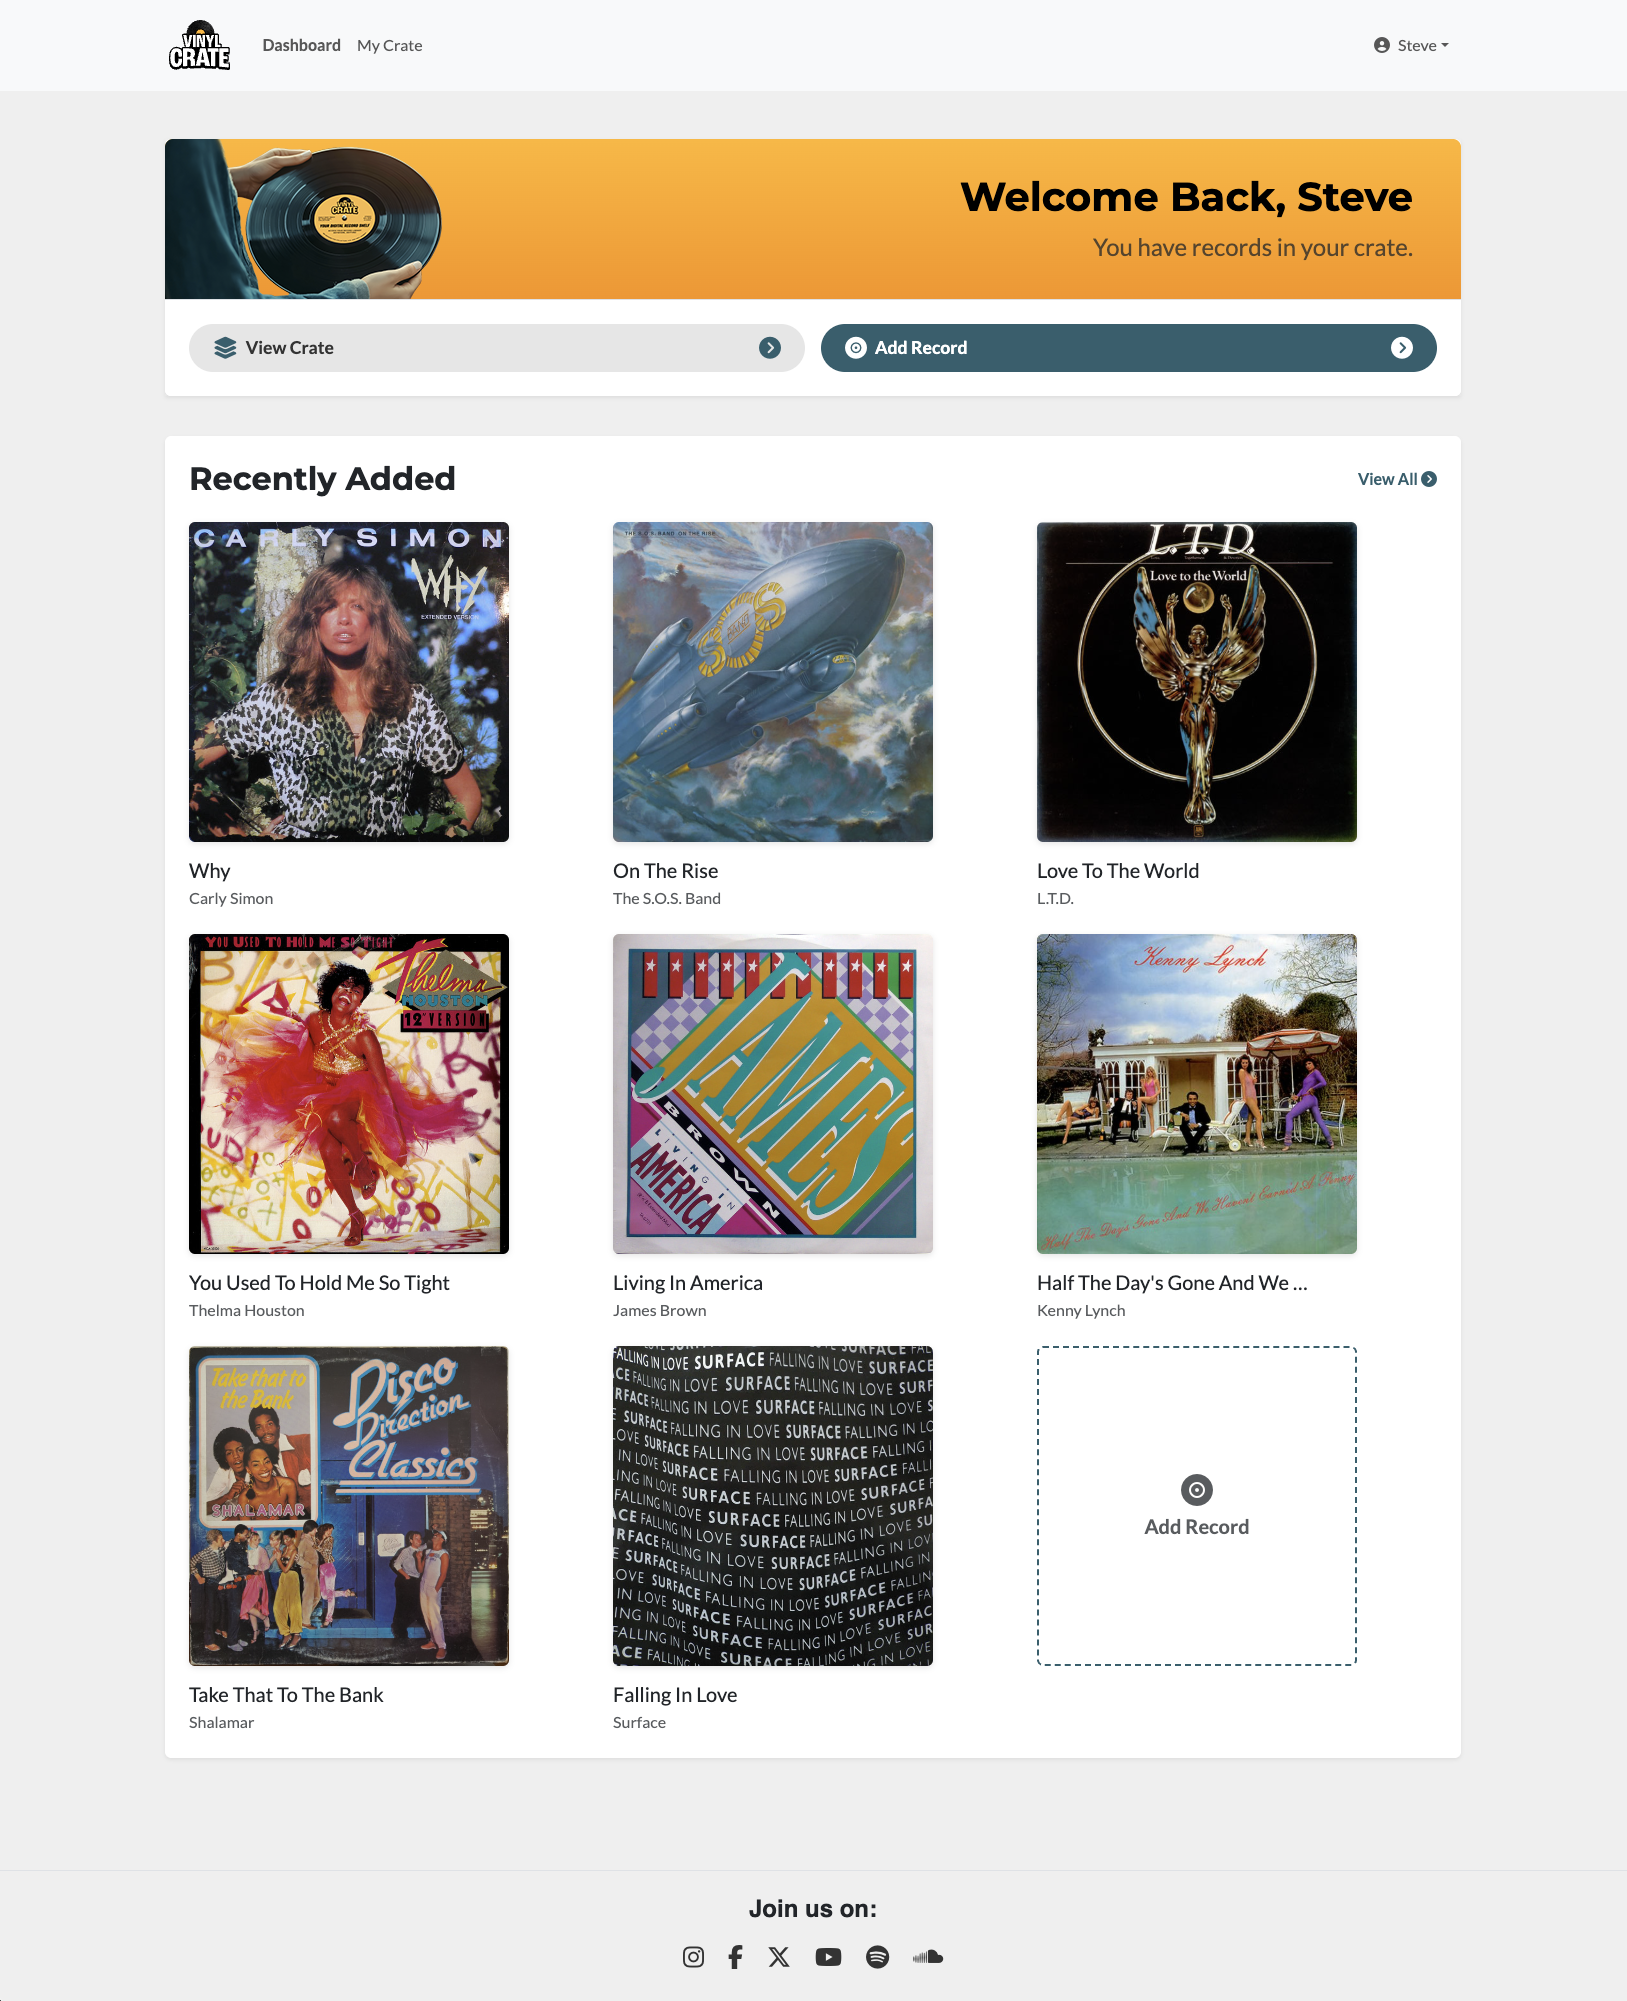
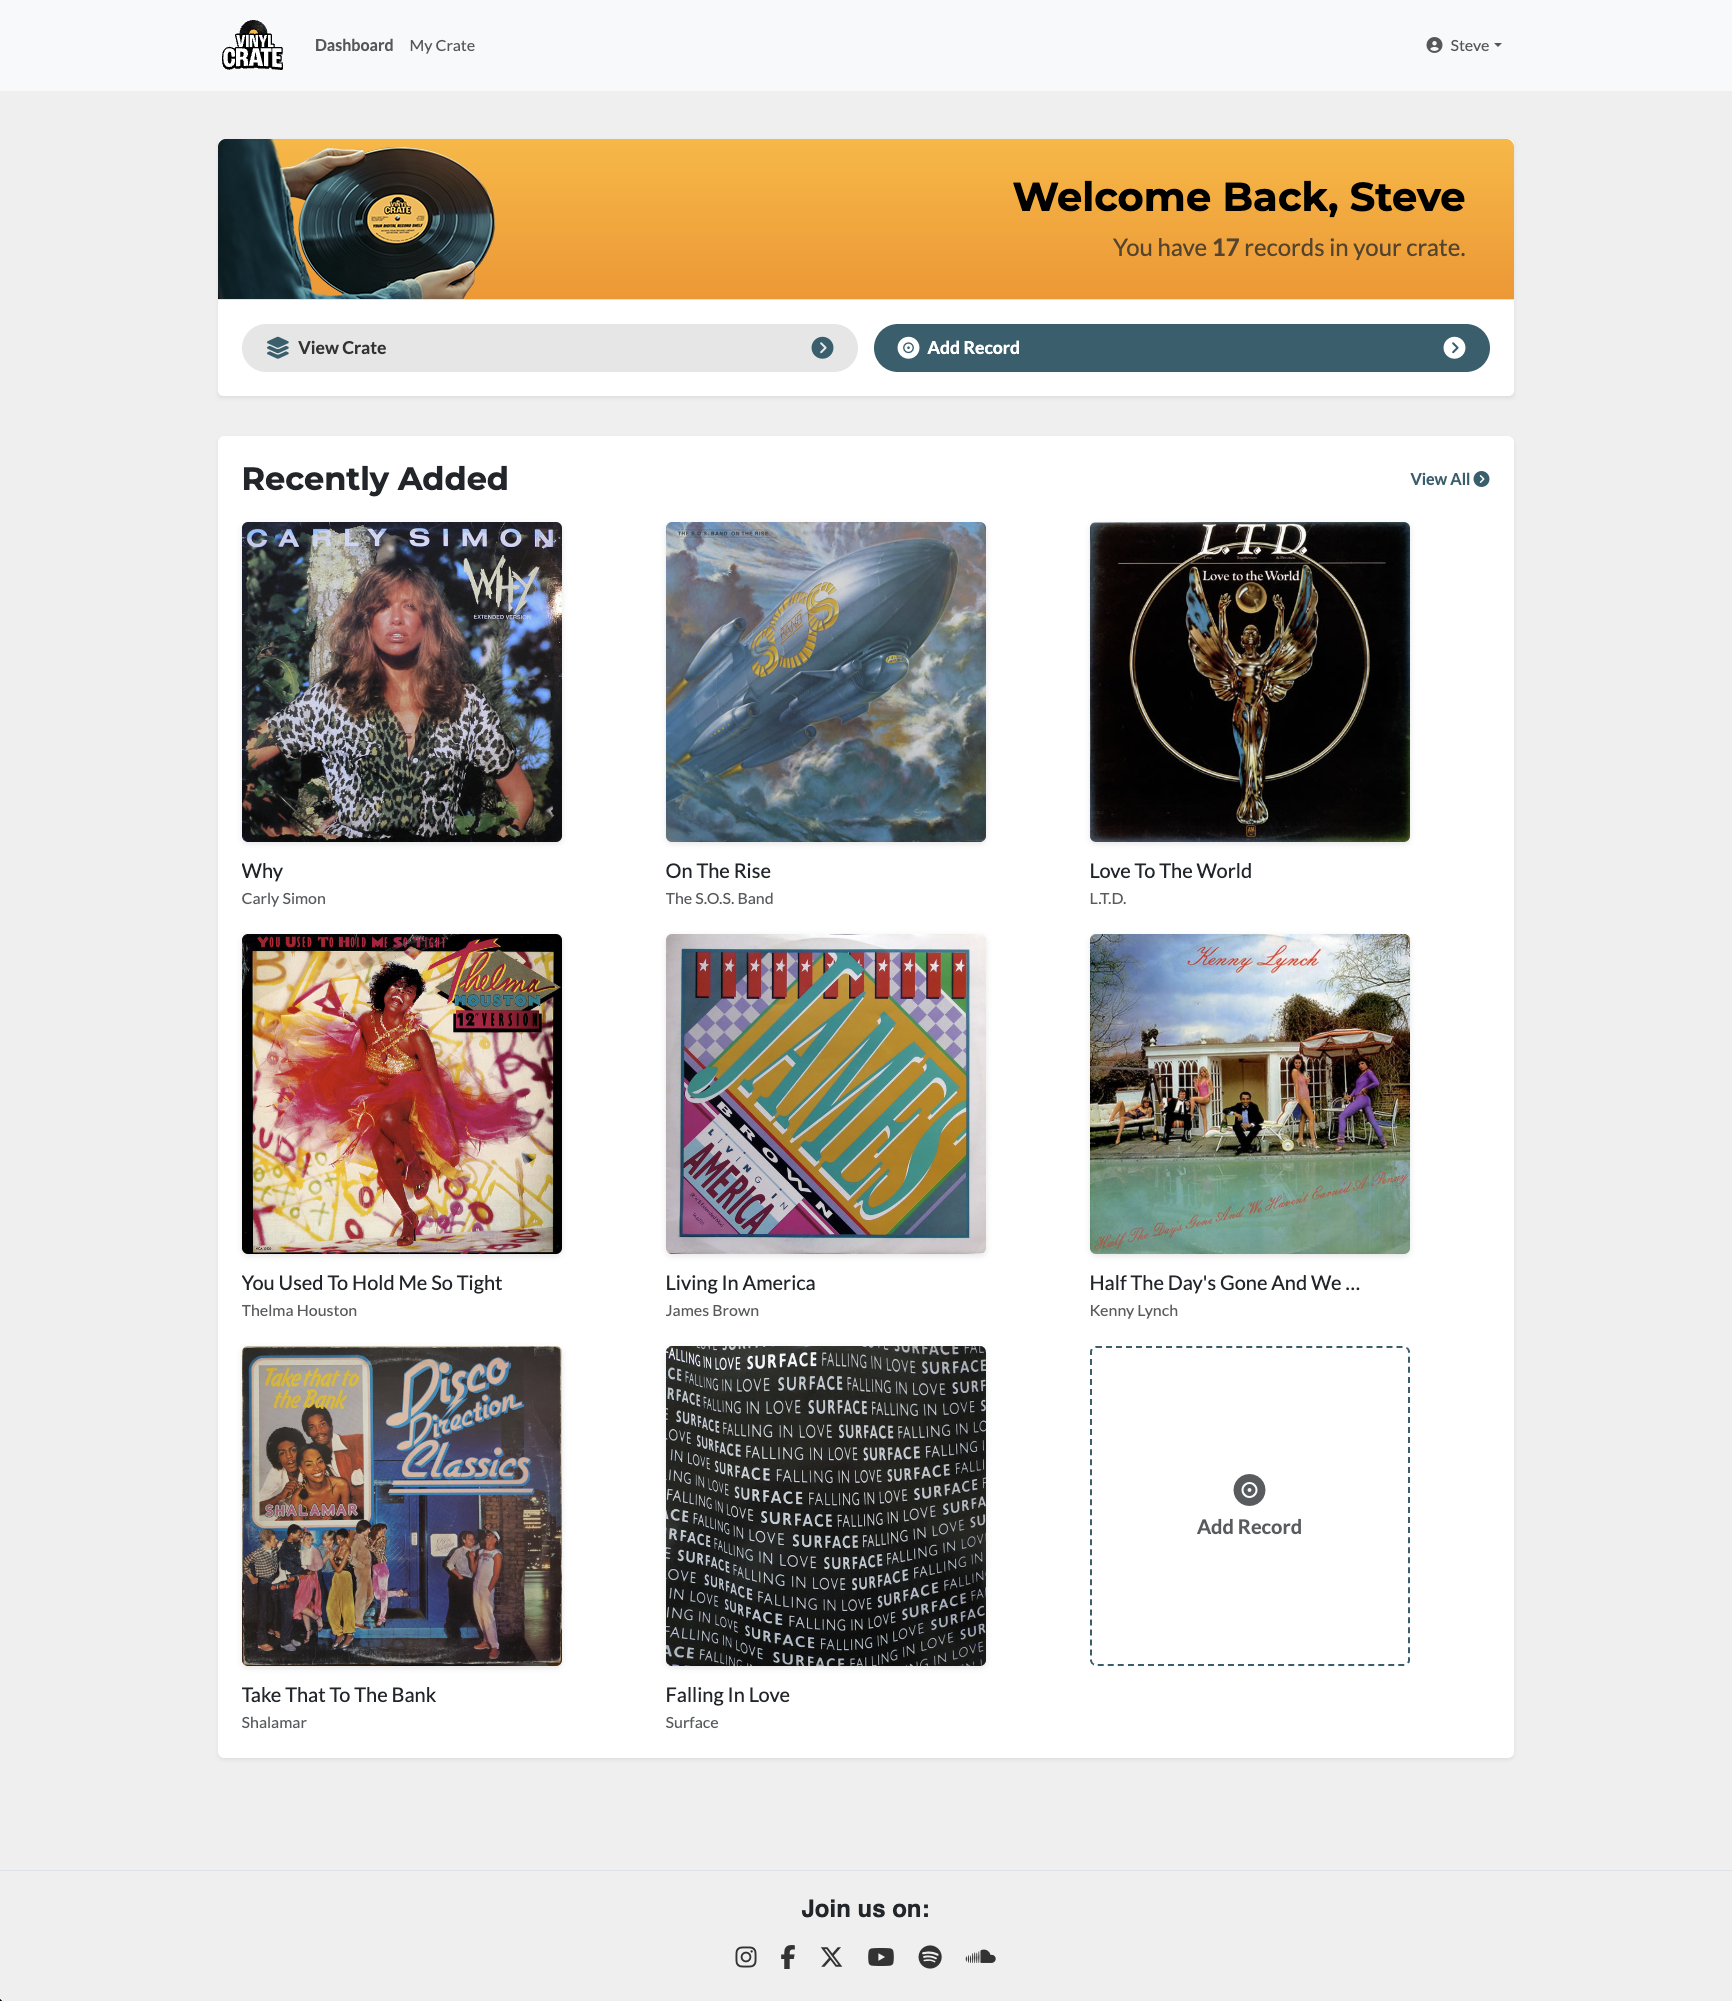
adjust padding and heading styles for dashboard mobile layout consistency

diff --git a/records/templates/records/record_list.html b/records/templates/records/record_list.html
@@ -16,9 +16,9 @@
                     <!-- Text Content Positioned Right -->
                     <div class="welcome-banner-content">
                         <h1 class="banner-title">Welcome Back, {{ user.first_name|default:user.username }}</h1>
-                        <p class="text-muted mb-0">
-                            You have <strong>{{ total_records }}</strong> records in your crate.
-                        </p>
+                        <h2 class="h4 text-muted mb-0">
+                            You have <strong>{{ total_records }}</strong> records in your crate
+                        </h2>
                     </div>
                 </div>
 
@@ -60,7 +60,7 @@
         <div class="bg-white rounded p-4 shadow-sm">
             <div class="row justify-content-between align-items-center mb-4">
                 <div class="col-auto">
-                    <h2 id="recently-added-heading" class="fw-bold mb-0">Recently Added</h2>
+                    <h3 id="recently-added-heading" class=" h2 fw-bold mb-0">Recently Added</h3>
                 </div>
                 <div class="col-auto">
                     <a href="{% url 'record_collection' %}"
@@ -113,27 +113,29 @@
     </section>
     {% else %}
     <!-- Add to Your Crate Section -->
-    <div class="py-5">
-        <h2 class="fw-bold mb-4">Add to Your Crate</h2>
-        <div class="row g-4">
-            <!-- Quick Add Tile -->
-            <div class="col-sm-6 col-md-4 col-2-sm">
-                <a href="{% url 'record_create' %}"
-                class="text-center text-decoration-none"
-                aria-label="Add a new record">
-                    <div class="d-flex flex-column justify-content-center align-items-center bg-light rounded p-3 quick-add-tile" role="button">
-                        <i class="fa-solid fa-record-vinyl fa-2x mb-2 text-muted"></i>
-                        <p class="text-muted mb-0">Add Record</p>
-                    </div>
-                </a>
+    <section class="py-3">
+        <div class="container ps-4">
+            <h3 class="h1 fw-bold mb-4">Add to Your Crate</h3>
+            <div class="row g-4">
+                <!-- Quick Add Tile -->
+                <div class="col-sm-6 col-md-4 col-2-sm">
+                    <a href="{% url 'record_create' %}"
+                    class="text-center text-decoration-none"
+                    aria-label="Add a new record">
+                        <div class="d-flex flex-column justify-content-center align-items-center bg-light rounded p-3 quick-add-tile" role="button">
+                            <i class="fa-solid fa-record-vinyl fa-2x mb-2 text-muted"></i>
+                            <p class="text-muted mb-0">Add Record</p>
+                        </div>
+                    </a>
+                </div>
             </div>
         </div>
-    </div>
+    </section>
     <!-- Staff Picks Section -->
     <section class="pt-5" aria-labelledby="staff-picks-heading">
         <div class="container">
             <div class="bg-white rounded p-4 shadow-sm">
-                <h2 id="staff-picks-heading" class="mb-4 fw-bold">Staff Picks</h2>
+                <h3 id="staff-picks-heading" class="h1 fw-bold mb-4">Staff Picks</h3>
                 <div class="row g-4">
                     {% for record in staff_picks %}
                         <div class="col-sm-6 col-md-4 col-2-sm">

diff --git a/static/css/style.css b/static/css/style.css
@@ -41,6 +41,12 @@ h1 span {
   font-style: italic;
 }
 
+h3.h1 {
+  font-size: 2rem; /* Matches your h2 sizing */
+  font-family: var(--secondary-font);
+  font-weight: 600;
+}
+
 p {
   font-family: var(--primary-font);
   font-weight: 500;

diff --git a/README.md b/README.md
@@ -533,9 +533,11 @@ The homepage acts as a stylish entry point for the Vinyl Crate experience — wh
 #### The Dashboard
 
 <details>
-<summary> Click here to view the dashboard </summary>
+<summary>Click here to view the dashboard</summary>
 
-![Vinyl Crate dashboard view on multiple devices](documentation/readme/surface_plane/features-dashboard.webp)
+![Vinyl Crate dashboard - user has records](documentation/readme/surface_plane/features-dashboard.webp)
+
+![Vinyl Crate dashboard - user has no records](documentation/readme/surface_plane/features-dashboard-norecords.webp)
 
 </details>
 
